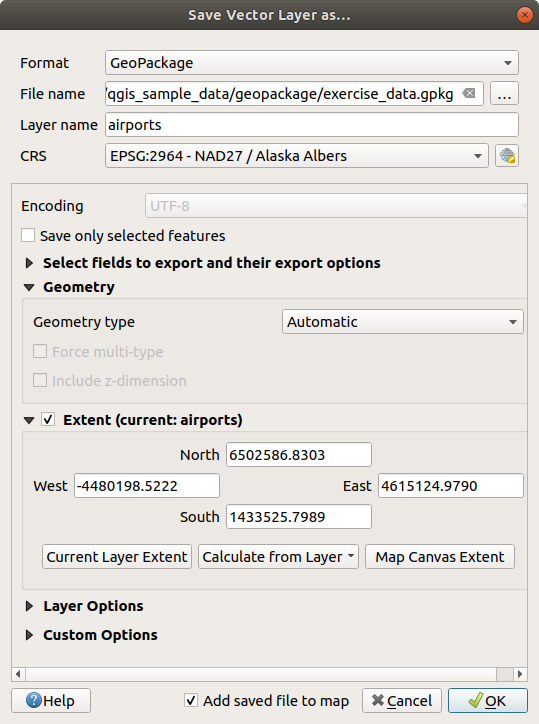
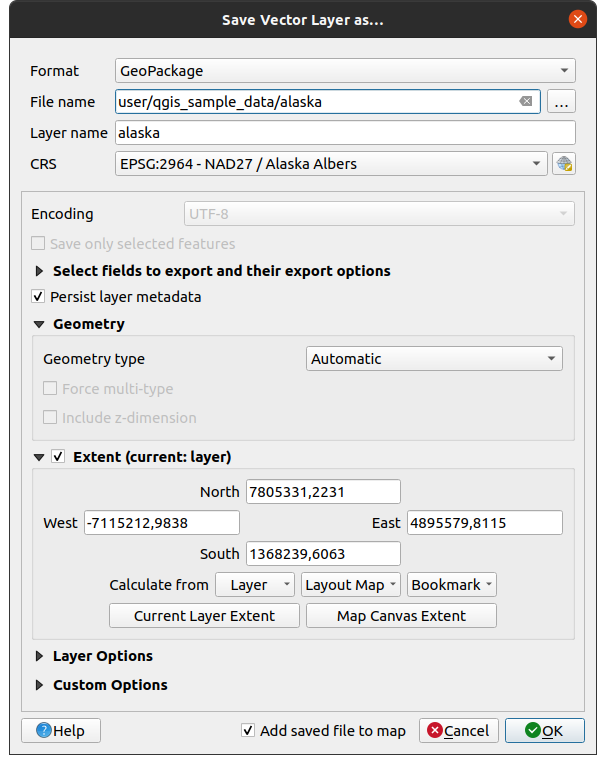
Brand new extent widget's calculate extent from layout map
and bookmark functionality

fixes #7263

Changed region(s): [[0.0, 0.0, 1.0, 1.0], [0.5046, 0.4254, 0.6827, 0.4862]]

diff --git a/docs/user_manual/introduction/general_tools.rst b/docs/user_manual/introduction/general_tools.rst
@@ -2513,11 +2513,14 @@ The :guilabel:`Extent` selector widget is a convenient shortcut when you want to
 select a spatial extent to assign to a layer or to limit the actions to run on.
 Depending on the context, it offers selection between:
 
-* :guilabel:`Current layer extent`, e.g. when exporting a layer
-* :menuselection:`Calculate from layer -->`: uses extent of a layer loaded in the
+* :guilabel:`Current Layer Extent`: e.g. when exporting a layer
+* :menuselection:`Calculate from Layer -->`: uses extent of a layer loaded in the
   current project
-* Use current :guilabel:`Map canvas extent`
-* :guilabel:`Draw on canvas` a rectangle whose coordinates are then used
+* Use current :guilabel:`Map Canvas Extent`
+* :guilabel:`Draw on Canvas`: a rectangle whose coordinates are then used
+* Use current :guilabel:`Calculate from Bookmark`: uses extent of a layer saved in the
+  bookmarks
+* Use current :guilabel:`Calculate from Layout Map`: uses extent of the layout map
 * Enter or edit the coordinates as ``xmin, xmax, ymin, ymax``
 
 .. _figure_extentselector_widget:
